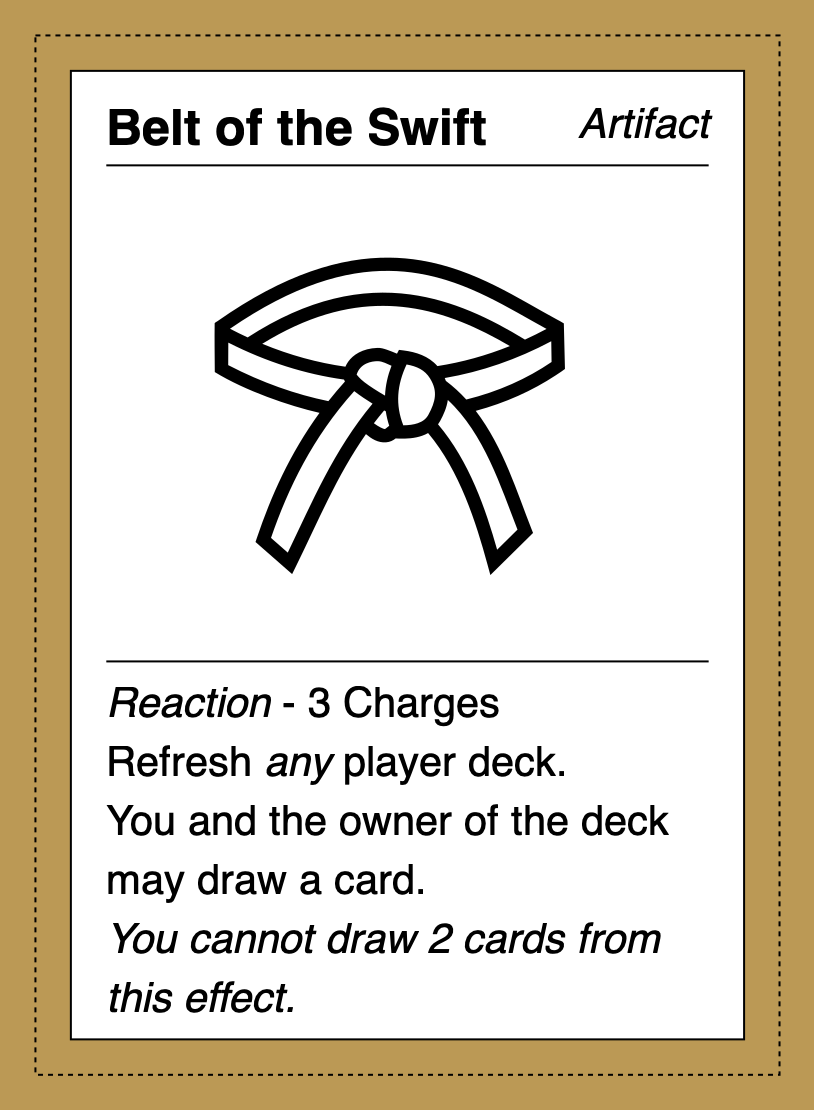
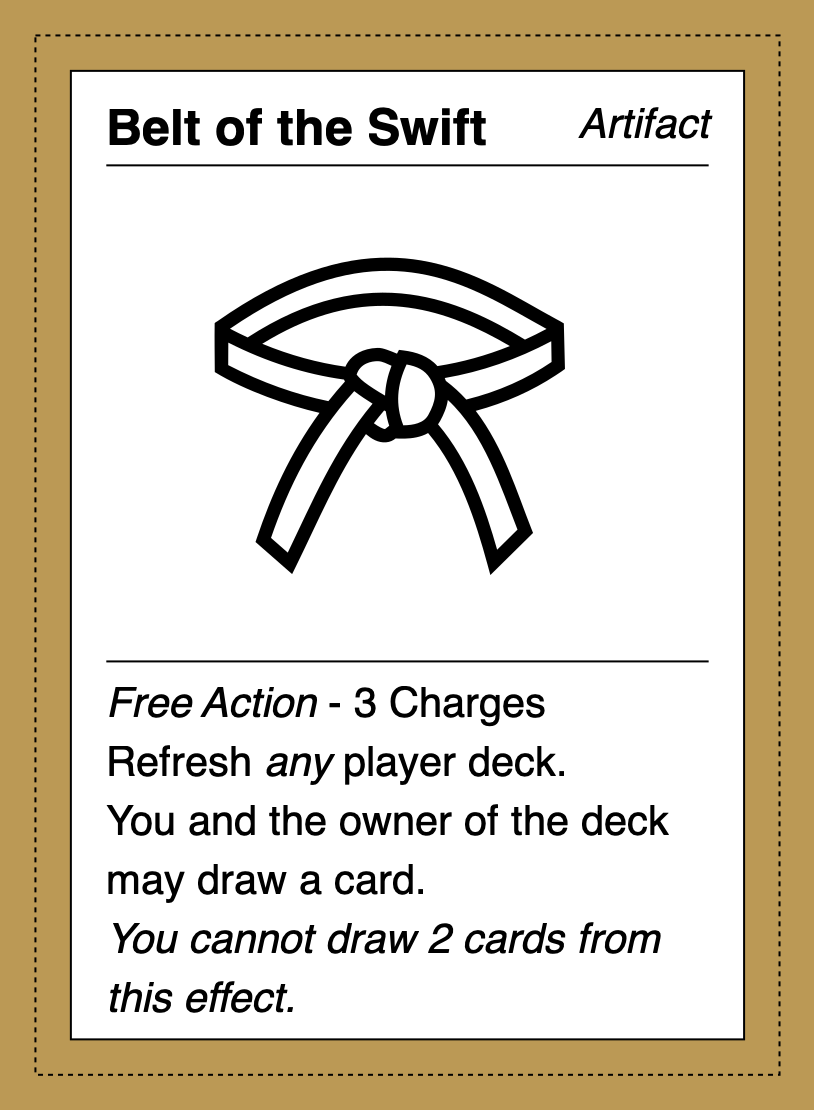
update some wording with Free Action

Changed region(s): [[0.1536, 0.6126, 0.6757, 0.6739]]

diff --git a/templates/tairos/main.rb b/templates/tairos/main.rb
@@ -34,7 +34,7 @@ Squib::Deck.new(**DECK_OPTIONS, layout: "layouts/tairos/main.yml", cards: cards.
        y: buffer
   
   ## TYPE
-  # Action/Reaction
+  # Action/Reaction/Free Action
   text layout: :type,
        str: cards.map(&:type),
        y: buffer,

diff --git a/templates/upgrade/main.rb b/templates/upgrade/main.rb
@@ -28,7 +28,6 @@ Squib::Deck.new(**DECK_OPTIONS, layout: "layouts/upgrade/main.yml", cards: cards
        y: buffer
   
   ## TYPE
-  # Action/Reaction
   text layout: :type,
        str: cards.map(&:type),
        y: buffer,
